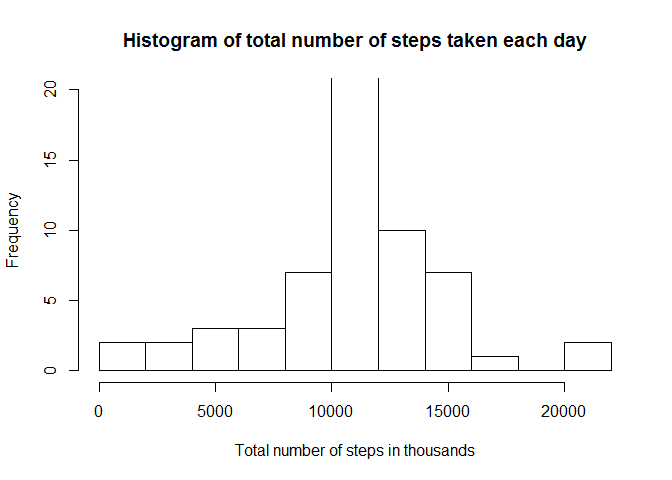
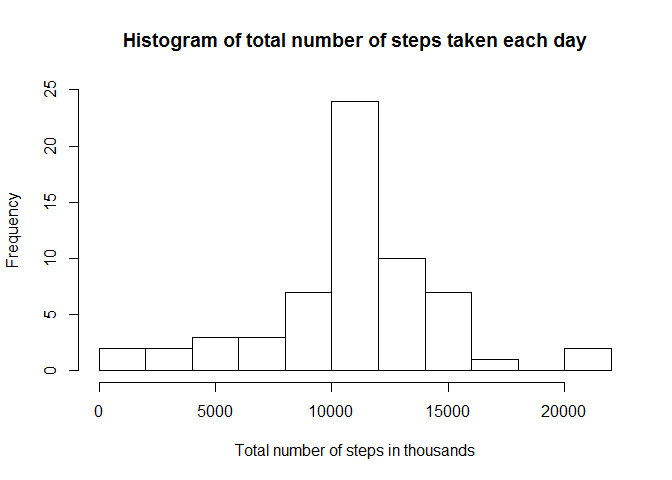
histogram update

diff --git a/PA1_template.html b/PA1_template.html
@@ -207,8 +207,8 @@ stepsPerDayNoNa &lt;- aggregate(activityNoNa$steps,by=list(activityNoNa$date),su
 names(stepsPerDayNoNa)&lt;-c(&quot;date&quot;,&quot;steps&quot;)
 
 #histogram of the total number of steps taken each day
-hist(x = stepsPerDayNoNa$steps, breaks = 11, xlab = &quot;Total number of steps in thousands&quot;, main = &quot;Histogram of total number of steps taken each day&quot;,ylim=c(0,20),xlim=c(0,22000))</code></pre>
[1 lines of base64/hex data omitted]
+hist(x = stepsPerDayNoNa$steps, breaks = 11, xlab = &quot;Total number of steps in thousands&quot;, main = &quot;Histogram of total number of steps taken each day&quot;,ylim=c(0,25),xlim=c(0,22000))</code></pre>
[1 lines of base64/hex data omitted]
 <pre class="r"><code>#Mean number of steps taken each day
 stepMeanNoNa&lt;-mean(stepsPerDayNoNa$steps,na.rm = TRUE)
 stepMeanNoNa</code></pre>

diff --git a/PA1_template.md b/PA1_template.md
@@ -138,7 +138,7 @@ stepsPerDayNoNa <- aggregate(activityNoNa$steps,by=list(activityNoNa$date),sum,n
 names(stepsPerDayNoNa)<-c("date","steps")
 
 #histogram of the total number of steps taken each day
-hist(x = stepsPerDayNoNa$steps, breaks = 11, xlab = "Total number of steps in thousands", main = "Histogram of total number of steps taken each day",ylim=c(0,20),xlim=c(0,22000))
+hist(x = stepsPerDayNoNa$steps, breaks = 11, xlab = "Total number of steps in thousands", main = "Histogram of total number of steps taken each day",ylim=c(0,25),xlim=c(0,22000))
 ```
 
 ![](PA1_template_files/figure-html/naValues-1.png)<!-- -->
